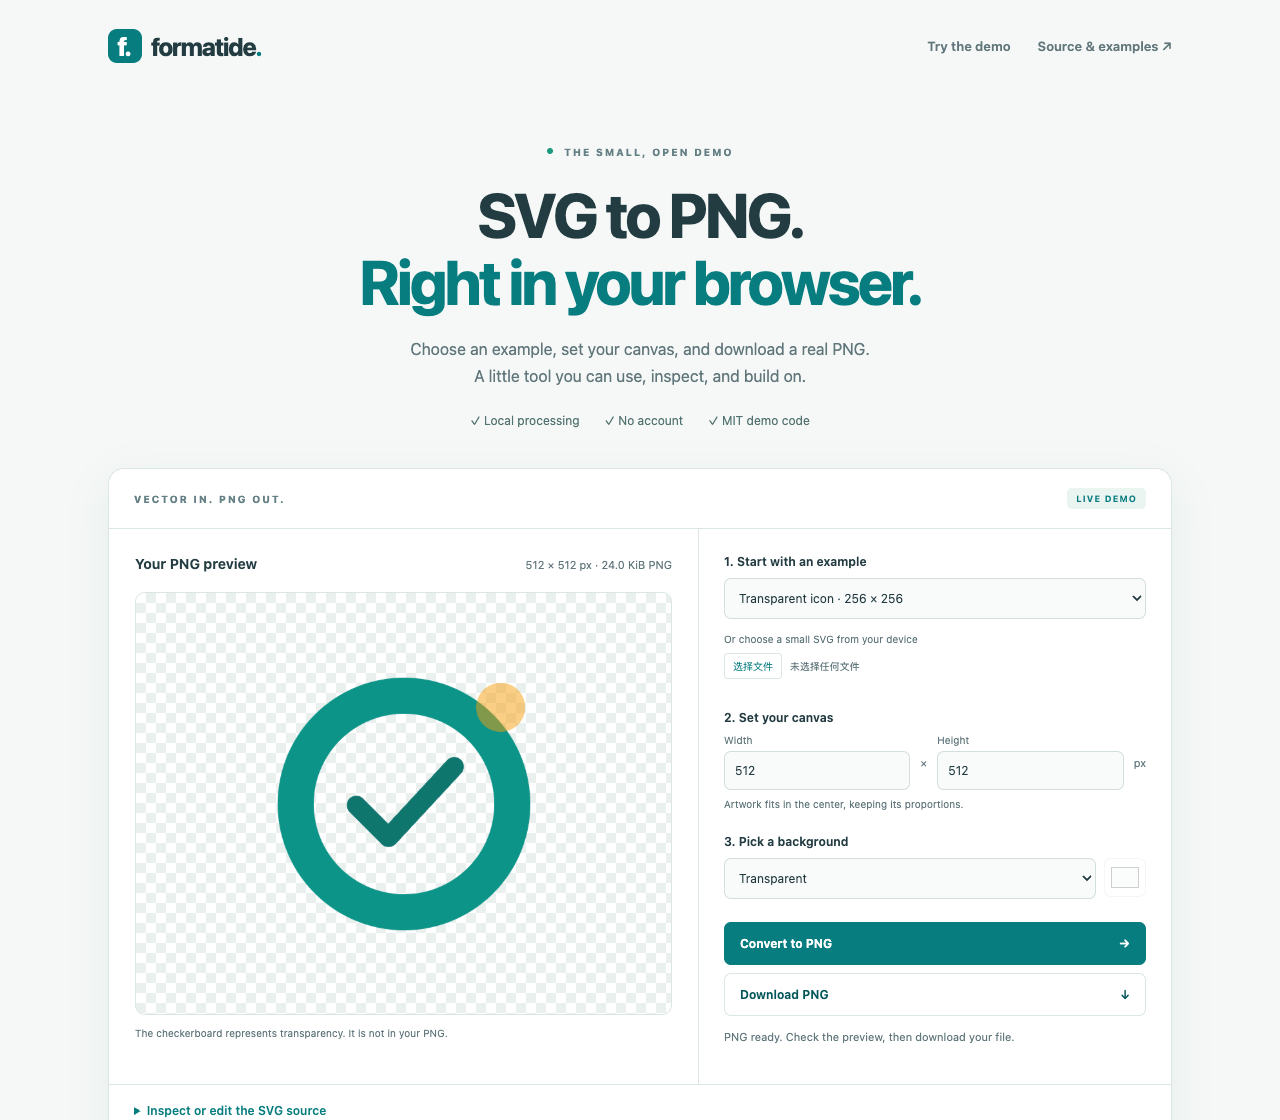
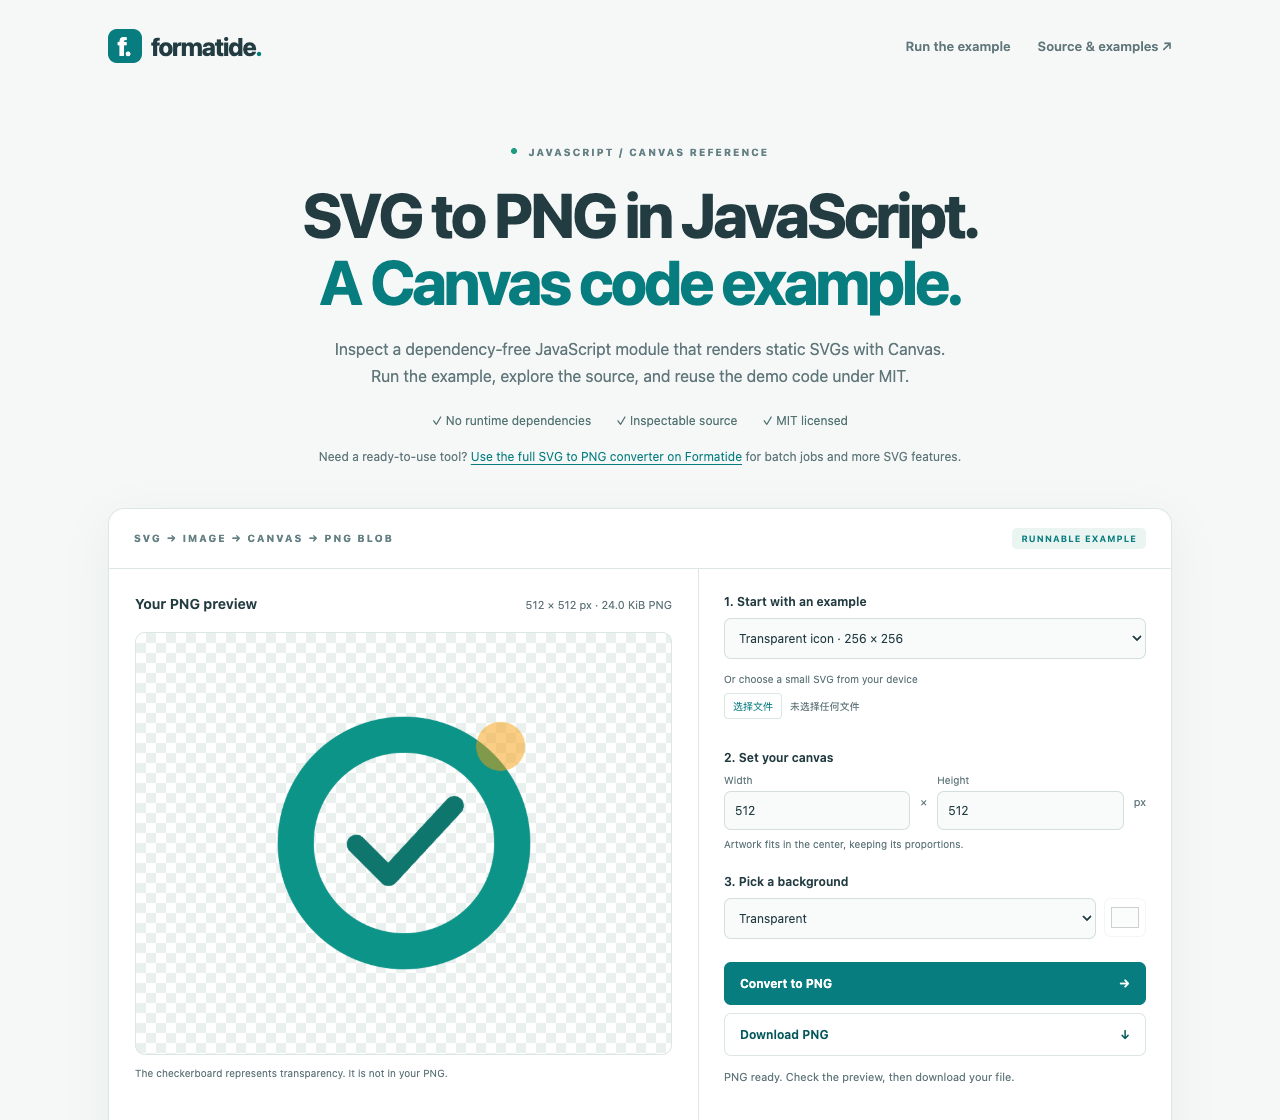
Position Pages demo as a JavaScript and Canvas reference example

diff --git a/demo/styles.css b/demo/styles.css
@@ -1,2 +1,4 @@
 :root{color-scheme:light;--ink:#233c42;--muted:#60767b;--teal:#087d80;--line:#dce6e5;--paper:#f5f8f7;--white:#fff;font-family:Inter,ui-sans-serif,system-ui,-apple-system,BlinkMacSystemFont,"Segoe UI",sans-serif;color:var(--ink);background:var(--paper);font-synthesis:none}*{box-sizing:border-box}body{margin:0}a{color:var(--teal);text-underline-offset:3px}a:hover{color:#035659}button,input,select,textarea{font:inherit}button,a,input,select,summary,textarea{-webkit-tap-highlight-color:transparent}:focus-visible{outline:3px solid #e6ae4c;outline-offset:4px}[hidden]{display:none!important}.wrap{max-width:1120px;margin-inline:auto;padding-inline:28px}.header{height:92px;display:flex;align-items:center;justify-content:space-between;gap:24px}.brand{text-decoration:none;display:flex;align-items:center;font-size:25px;font-weight:760;letter-spacing:-1.2px;color:var(--ink)}.mark{display:grid;place-items:center;width:34px;height:34px;border-radius:9px;background:var(--teal);color:white;font-size:26px;margin-right:9px;letter-spacing:-2px;padding-right:3px}.brand-dot{color:var(--teal)}nav{display:flex;gap:27px;font-size:13px;font-weight:600}nav a{text-decoration:none;color:var(--muted)}.hero{padding-block:44px 40px;text-align:center}.eyebrow{font-size:10px;letter-spacing:2px;font-weight:750;color:#658084}.live-dot{display:inline-block;width:6px;height:6px;background:#1c9b80;border-radius:50%;margin-right:7px;vertical-align:2px}h1{font-size:clamp(38px,5.5vw,62px);line-height:1.08;letter-spacing:-2.7px;margin:24px 0 20px;font-weight:750}h1 span{color:var(--teal)}.intro{font-size:16px;line-height:1.7;color:var(--muted);margin:0}.benefits{display:flex;justify-content:center;gap:25px;font-size:12px;margin-top:23px;color:#527371}.workspace{background:var(--white);border:1px solid var(--line);border-radius:16px;padding:0;box-shadow:0 12px 45px #173d3410;overflow:hidden;scroll-margin-top:20px}.workspace-top{padding:19px 25px;border-bottom:1px solid var(--line);display:flex;align-items:center;justify-content:space-between}.badge{font-size:9px;font-weight:700;letter-spacing:1px;color:var(--teal);background:#eaf5f1;padding:5px 9px;border-radius:5px}.workspace-grid{display:grid;grid-template-columns:minmax(0,1.25fr) minmax(0,1fr)}.preview-column{padding:26px;border-right:1px solid var(--line);min-width:0}.preview-heading{display:flex;justify-content:space-between;gap:12px;align-items:baseline;margin-bottom:20px;flex-wrap:wrap}.preview-heading h2{font-size:14px;margin:0;font-weight:650}.preview-heading span{font-size:11px;color:var(--muted)}.checker{background-color:#fff;background-image:linear-gradient(45deg,#eaf0ee 25%,transparent 25%),linear-gradient(-45deg,#eaf0ee 25%,transparent 25%),linear-gradient(45deg,transparent 75%,#eaf0ee 75%),linear-gradient(-45deg,transparent 75%,#eaf0ee 75%);background-size:20px 20px;background-position:0 0,0 10px,10px -10px,-10px 0}.preview-canvas{min-height:302px;height:calc(100% - 80px);display:flex;justify-content:center;align-items:center;border:1px solid var(--line);border-radius:10px;padding:26px;overflow:hidden}.preview-canvas img{display:block;max-width:100%;max-height:330px;object-fit:contain}.preview-canvas p{text-align:center;font-size:15px;line-height:1.7;color:#4e7071}.preview-canvas small{font-size:11px;color:var(--muted)}.outline-icon{display:block;border:1px solid #8db5b3;background:#f8fffd;border-radius:12px;width:52px;height:52px;line-height:48px;font-size:32px;margin:0 auto 20px;color:var(--teal)}.caption{font-size:10px;color:var(--muted);line-height:1.7;margin-bottom:0}.controls{padding:25px;display:flex;flex-direction:column}.controls>label,.control-section>label{font-size:12px;font-weight:650;margin-bottom:9px;display:block}select,input[type=number]{width:100%;border:1px solid #d3dfdd;border-radius:7px;background:#f9fbfa;color:var(--ink);padding:11px 10px;font-size:12px}select{cursor:pointer}.file-label{font-weight:400!important;color:var(--muted);font-size:10px!important;margin-top:12px;line-height:1.7}input[type=file]{width:100%;font-size:10px;margin-top:5px}input::file-selector-button{border:1px solid var(--line);background:#fff;padding:5px 8px;border-radius:4px;color:var(--teal);margin-right:8px}.control-section{margin-top:22px}.dimensions{display:flex;align-items:center;gap:10px;font-size:11px;color:var(--muted)}.dimensions label{flex:1;min-width:0;font-size:10px}.dimensions input{margin-top:5px}.hint{font-size:10px;color:var(--muted);margin:7px 0 0;line-height:1.5}.background-row{display:flex;gap:8px}input[type=color]{width:42px;height:39px;padding:4px;border:1px solid var(--line);border-radius:7px;background:white;flex-shrink:0}input:disabled{opacity:.35}.button{border-radius:7px;padding:13px 15px;display:flex;justify-content:space-between;align-items:center;border:1px solid var(--line);font-weight:650;font-size:12px;cursor:pointer;text-decoration:none}.primary{background:var(--teal);color:white;border-color:var(--teal);margin-top:23px}.primary:hover{background:#06696c}.primary:disabled{opacity:.6;cursor:wait}.secondary{background:white;color:var(--teal);margin-top:8px}a[aria-disabled=true]{opacity:.38;cursor:default}.status{min-height:31px;font-size:11px;line-height:1.6;color:var(--muted);margin:12px 0 0}.source-panel{border-top:1px solid var(--line);padding:18px 25px;font-size:12px}.source-panel summary{color:var(--teal);cursor:pointer;font-weight:600}.source-panel textarea{width:100%;margin-top:15px;font-family:ui-monospace,SFMono-Regular,Consolas,monospace;font-size:12px;line-height:1.6;background:#f5f8f7;padding:14px;border:1px solid var(--line);border-radius:7px;resize:vertical;color:var(--ink)}.demo-limits{border-top:1px solid var(--line);background:#fafcfb;margin:0;padding:16px 25px;font-size:11px;line-height:1.8;color:var(--muted)}.notes{display:grid;grid-template-columns:repeat(3,minmax(0,1fr));gap:42px;padding-top:65px;padding-bottom:55px}.step{font-size:9px;letter-spacing:1.5px;color:var(--teal);font-weight:700}.notes h2{font-size:19px;letter-spacing:-.5px;margin:12px 0}.notes p,.section-title p,.faq p{font-size:13px;line-height:1.85;color:var(--muted)}.tool-section{border-top:1px solid var(--line);padding-top:35px;padding-bottom:45px}.section-title h2,.faq h2{font-size:27px;letter-spacing:-.8px;margin:13px 0}.tool-links{display:grid;grid-template-columns:repeat(4,minmax(0,1fr));gap:10px;margin-top:25px}.tool-links a{display:flex;justify-content:space-between;gap:8px;text-decoration:none;font-size:12px;font-weight:600;padding:15px;background:white;border:1px solid var(--line);border-radius:7px}.tool-links span{color:#8ba3a3}.tool-links a:hover{border-color:var(--teal)}.faq{max-width:850px;padding-block:20px 60px}.faq>details{padding:20px 0;border-bottom:1px solid var(--line)}.faq summary{font-size:13px;cursor:pointer;font-weight:600}.faq p{margin-bottom:0}footer{border-top:1px solid var(--line);padding-block:27px;display:flex;gap:20px;flex-wrap:wrap;font-size:10px;color:var(--muted)}footer span{margin-right:auto}footer a{text-decoration:none;color:var(--muted)}.skip{position:absolute;left:20px;top:-100px}.skip:focus{top:15px;z-index:5;background:white;padding:10px}.sr-only{position:absolute;width:1px;height:1px;overflow:hidden;clip-path:inset(50%)}
 @media(min-width:1150px){.workspace{max-width:1064px}}@media(max-width:700px){.wrap{padding-inline:20px}.header{height:75px}.brand{font-size:21px}.mark{width:29px;height:29px;font-size:23px}nav{gap:16px;font-size:10px}.hero{padding-block:25px 32px}h1{font-size:38px;letter-spacing:-1.6px}.intro{font-size:14px}.desktop{display:none}.benefits{font-size:10px;gap:16px;flex-wrap:wrap}.workspace{margin-inline:15px;padding:0}.workspace-grid{grid-template-columns:1fr}.preview-column{border-right:0;border-bottom:1px solid var(--line);padding:20px}.preview-canvas{min-height:220px;height:240px}.preview-canvas img{max-height:200px}.controls{padding:20px}.preview-heading{margin-bottom:12px}.source-panel,.demo-limits{padding-inline:20px}.notes{grid-template-columns:1fr;gap:27px;padding-block:40px}.notes h2{margin:8px 0}.notes p{margin:0}.tool-links{grid-template-columns:repeat(2,minmax(0,1fr))}.section-title h2,.faq h2{font-size:24px}footer{gap:15px}.header nav a:first-child{display:none}}
+
+.hero-tool-link{max-width:720px;margin:18px auto 0;font-size:12px;line-height:1.8;color:var(--muted)}

diff --git a/demo/index.html b/demo/index.html
@@ -5,12 +5,12 @@
   <meta name="viewport" content="width=device-width,initial-scale=1">
   <meta http-equiv="Content-Security-Policy" content="default-src 'self'; script-src 'self'; style-src 'self'; img-src 'self' blob:; connect-src 'self'; font-src 'self'; object-src 'none'; base-uri 'none'; form-action 'none'">
   <meta name="robots" content="index,follow">
-  <title>SVG to PNG Browser Demo & Examples | Formatide</title>
-  <meta name="description" content="Try an open SVG to PNG browser demo. Convert static SVG shapes locally, set a transparent or solid background, and download a real PNG. Includes reusable code and examples.">
+  <title>SVG to PNG JavaScript Example — Canvas Demo | Formatide</title>
+  <meta name="description" content="Explore a dependency-free SVG to PNG JavaScript example using Canvas. Inspect the source, run the demo and reuse the standalone module under MIT.">
   <link rel="canonical" href="https://mcflysj.github.io/formatide-svg-to-png/">
   <meta property="og:type" content="website">
-  <meta property="og:title" content="SVG to PNG Browser Demo | Formatide">
-  <meta property="og:description" content="A small, working SVG to PNG example. Your file stays in your browser. Try the demo or reuse the standalone module.">
+  <meta property="og:title" content="SVG to PNG JavaScript Example | Formatide">
+  <meta property="og:description" content="Learn the SVG → image → Canvas → PNG Blob workflow. Run an inspectable JavaScript example with no runtime dependencies and MIT-licensed demo code.">
   <meta property="og:url" content="https://mcflysj.github.io/formatide-svg-to-png/">
   <meta name="theme-color" content="#087d80">
   <link rel="icon" href="./favicon.svg" type="image/svg+xml">
@@ -21,21 +21,22 @@
   <a class="skip" href="#demo">Skip to demo</a>
   <header class="header wrap">
     <a class="brand" href="https://formatide.com/" aria-label="Formatide home"><span class="mark">f.</span>formatide<span class="brand-dot">.</span></a>
-    <nav aria-label="Main"><a href="#demo">Try the demo</a><a href="https://github.com/mcflysj/formatide-svg-to-png">Source & examples ↗</a></nav>
+    <nav aria-label="Main"><a href="#demo">Run the example</a><a href="https://github.com/mcflysj/formatide-svg-to-png">Source & examples ↗</a></nav>
   </header>
   <main>
     <section class="hero wrap">
-      <p class="eyebrow"><span class="live-dot"></span> THE SMALL, OPEN DEMO</p>
-      <h1>SVG to PNG.<br><span>Right in your browser.</span></h1>
-      <p class="intro">Choose an example, set your canvas, and download a real PNG.<br class="desktop"> A little tool you can use, inspect, and build on.</p>
-      <div class="benefits"><span>✓ Local processing</span><span>✓ No account</span><span>✓ MIT demo code</span></div>
+      <p class="eyebrow"><span class="live-dot"></span> JAVASCRIPT / CANVAS REFERENCE</p>
+      <h1>SVG to PNG in JavaScript.<br><span>A Canvas code example.</span></h1>
+      <p class="intro">Inspect a dependency-free JavaScript module that renders static SVGs with Canvas.<br class="desktop"> Run the example, explore the source, and reuse the demo code under MIT.</p>
+      <div class="benefits"><span>✓ No runtime dependencies</span><span>✓ Inspectable source</span><span>✓ MIT licensed</span></div>
+      <p class="hero-tool-link">Need a ready-to-use tool? <a href="https://formatide.com/">Use the full SVG to PNG converter on Formatide</a> for batch jobs and more SVG features.</p>
     </section>
-    <section class="workspace wrap" id="demo" aria-label="SVG to PNG demo">
-      <div class="workspace-top"><span class="eyebrow">VECTOR IN. PNG OUT.</span><span class="badge">LIVE DEMO</span></div>
+    <section class="workspace wrap" id="demo" aria-label="SVG to PNG JavaScript example">
+      <div class="workspace-top"><span class="eyebrow">SVG → IMAGE → CANVAS → PNG BLOB</span><span class="badge">RUNNABLE EXAMPLE</span></div>
       <div class="workspace-grid">
         <div class="preview-column">
           <div class="preview-heading"><h2>Your PNG preview</h2><span id="result-size">Your PNG will appear here</span></div>
-          <div class="checker preview-canvas"><p id="placeholder"><span class="outline-icon">↗</span>Give your SVG a new format.<br><small>Choose a sample and select Convert to PNG.</small></p><img id="preview" alt="Converted PNG preview" hidden></div>
+          <div class="checker preview-canvas"><p id="placeholder"><span class="outline-icon">↗</span>Run the JavaScript example.<br><small>Choose a sample and select Convert to PNG.</small></p><img id="preview" alt="Converted PNG preview" hidden></div>
           <p class="caption">The checkerboard represents transparency. It is not in your PNG.</p>
         </div>
         <form id="convert-form" class="controls">

diff --git a/tests/demo.spec.js b/tests/demo.spec.js
@@ -91,7 +91,7 @@ test('mobile layout, static metadata and links work from a project subpath', asy
   expect(await page.locator('.tool-links a').count()).toBe(13)
   const root = await request.get('./')
   expect(root.status()).toBe(200)
-  expect(await root.text()).toContain('SVG to PNG.')
+  expect(await root.text()).toContain('SVG to PNG in JavaScript.')
   const sitemap = await request.get('sitemap.xml')
   expect(sitemap.status()).toBe(200)
   expect(await sitemap.text()).toContain('https://mcflysj.github.io/formatide-svg-to-png/')

diff --git a/README.md b/README.md
@@ -1,14 +1,14 @@
-# Formatide — SVG to PNG Browser Demo & Examples
+# Formatide — SVG to PNG JavaScript & Canvas Example
 
-Convert SVG to PNG locally, inspect a small working implementation, and try reusable examples. This repository is the public companion to [Formatide's browser conversion tools](https://formatide.com/converter).
+Learn the SVG-to-PNG Canvas workflow with a small, dependency-free JavaScript reference implementation. This repository is the public companion to [Formatide's browser conversion tools](https://formatide.com/converter).
 
-**[Try the live SVG to PNG demo](https://mcflysj.github.io/formatide-svg-to-png/)** · **[Convert SVG to PNG in your browser](https://formatide.com/)** · [Demo module & API](demo/README.md) · [Conversion guide](docs/svg-to-png-guide.md)
+**[Run the SVG to PNG JavaScript example](https://mcflysj.github.io/formatide-svg-to-png/)** · **[Convert SVG to PNG in your browser](https://formatide.com/)** · [Demo module & API](demo/README.md) · [Conversion guide](docs/svg-to-png-guide.md)
 
 ## A demo you can use and reuse
 
 The [GitHub Pages demo](https://mcflysj.github.io/formatide-svg-to-png/) creates real PNG downloads on your device. Choose a bundled SVG, load a small file, or edit the source. Set a fixed canvas, keep a transparent background or add a solid color, then inspect and download the result.
 
-[![Working SVG to PNG browser demo with a transparent icon, fixed canvas controls and a PNG download](assets/demo-preview.png)](https://mcflysj.github.io/formatide-svg-to-png/)
+[![SVG to PNG JavaScript and Canvas example with inspectable source, a transparent icon and a real PNG download](assets/demo-preview.png)](https://mcflysj.github.io/formatide-svg-to-png/)
 
 - **Standalone module:** [`demo/svg-to-png.js`](demo/svg-to-png.js), with no runtime dependencies.
 - **Reusable code:** the files in [`demo/`](demo/) are [MIT licensed](demo/LICENSE).
